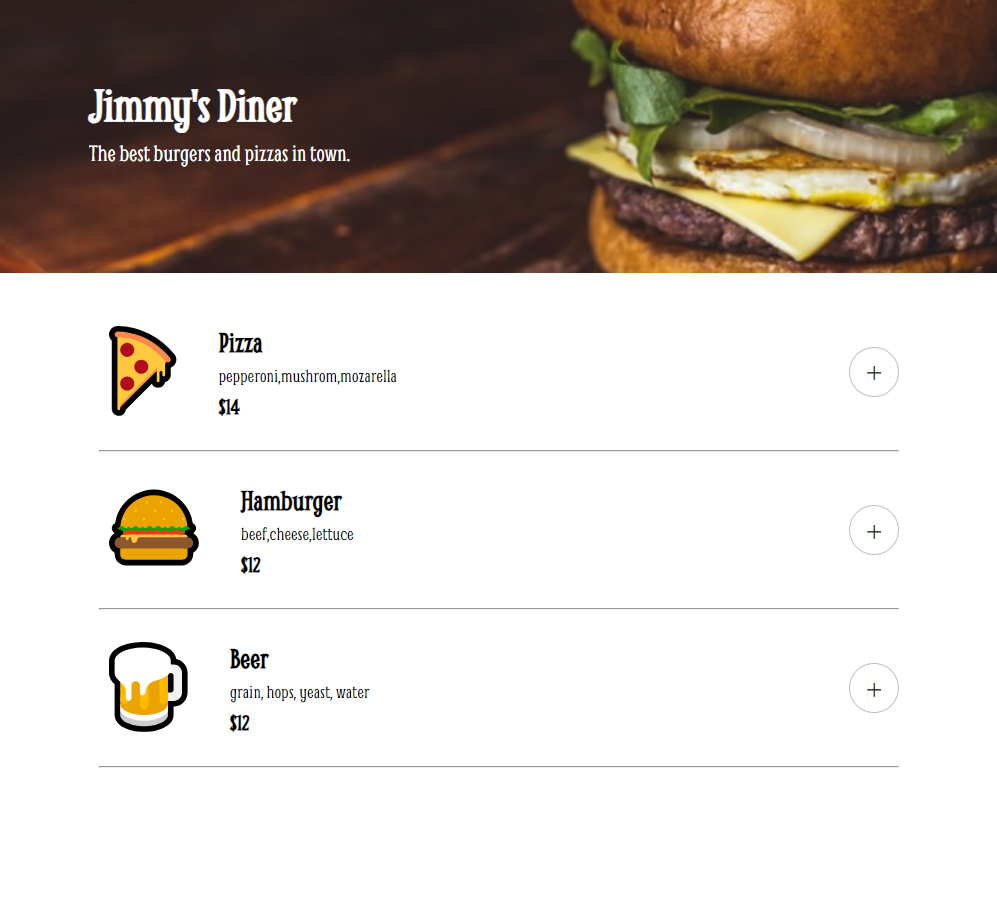
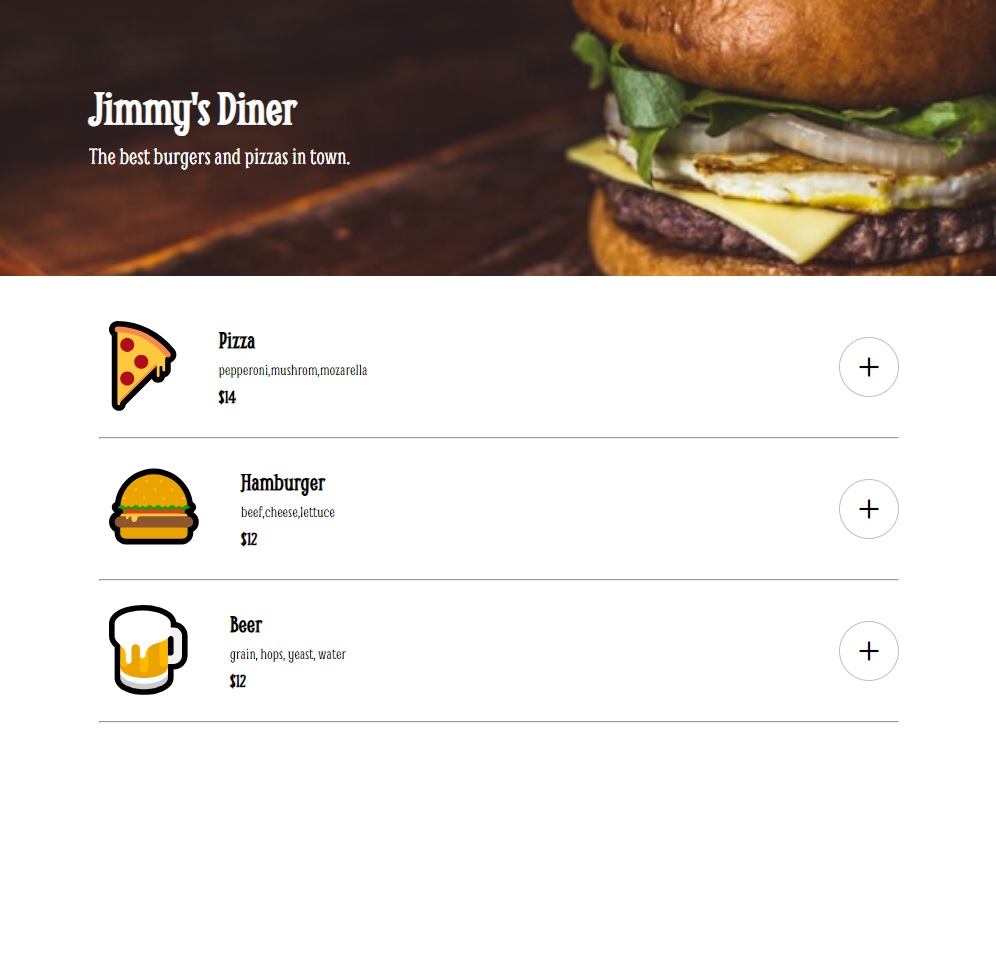
Centered + button

diff --git a/style.css b/style.css
@@ -51,7 +51,6 @@ header {
 
 .menu-details {
     margin-left: 2rem;
-    font-size: 1.2rem;
 }
 
 .menu-emoji {
@@ -74,20 +73,24 @@ header {
 
 .add-btn {
     border-radius: 50%;
-    align-self: center;
+    /* align-self: center; */
     margin-left: auto;
     font-size: 2rem;
-    border: 1px solid black;
-    height: 50px;
-    width: 50px;
+    border: 1px solid #c0bebe;
+    line-height: 60px;
+    height: 60px;
+    width: 60px;
     display: flex;
     justify-content: center;
     align-items: center;
     padding: 1rem;
     font-family: 'Inter', sans-serif;
     background-color: white;
-    border-color: #c0bebe;
     cursor: pointer;
+}
+
+.fa-regular {
+    font-size: 1.5rem;
 }
 
 .add-btn:hover {
@@ -100,7 +103,6 @@ header {
 
 .checkout-title {
     text-align: center;
-    font-size: 2.5rem;
     margin: 2rem 0;
 }
 
@@ -108,7 +110,6 @@ header {
     display: flex;
     align-items: center;
     margin-top: 1.5rem;
-    font-size: 1.5rem;
 }
 
 .remove-btn {
@@ -134,7 +135,6 @@ header {
     margin-top: 1.5rem;
     display: flex;
     border-top: 2px solid black;
-    font-size: 1.5rem;
 }
 
 .total-cost {

diff --git a/index.html b/index.html
@@ -7,6 +7,10 @@
     <link rel="preconnect" href="https://fonts.googleapis.com">
     <link rel="preconnect" href="https://fonts.gstatic.com" crossorigin>
     <link href="https://fonts.googleapis.com/css2?family=Inter:wght@200&family=Smythe&display=swap" rel="stylesheet">
+
+    <!-- Fontawesome ICON CDN -->
+    <link rel="stylesheet" href="https://cdnjs.cloudflare.com/ajax/libs/font-awesome/6.4.0/css/all.min.css" integrity="sha512-iecdLmaskl7CVkqkXNQ/ZH/XLlvWZOJyj7Yy7tcenmpD1ypASozpmT/E0iPtmFIB46ZmdtAc9eNBvH0H/ZpiBw==" crossorigin="anonymous" referrerpolicy="no-referrer" />
+    
     <link rel="stylesheet" href="style.css">
     <title>Solo Project - Mobile Ordering App</title>
 </head>

diff --git a/script.js b/script.js
@@ -20,7 +20,7 @@ function render() {
                 <p class="menu-ingredients">${menu.ingredients}</p>
                 <h3 class="menu-price">$${menu.price}</h3>
             </div>
-            <button class="add-btn" id="add-btn" data-id="${menu.id}">+</button> 
+            <button class="add-btn" id="add-btn" data-id="${menu.id}"><i class="fa-regular fa-plus" id="add-btn" data-id="${menu.id}"></i></button> 
         </div>
         <hr>`
     })
